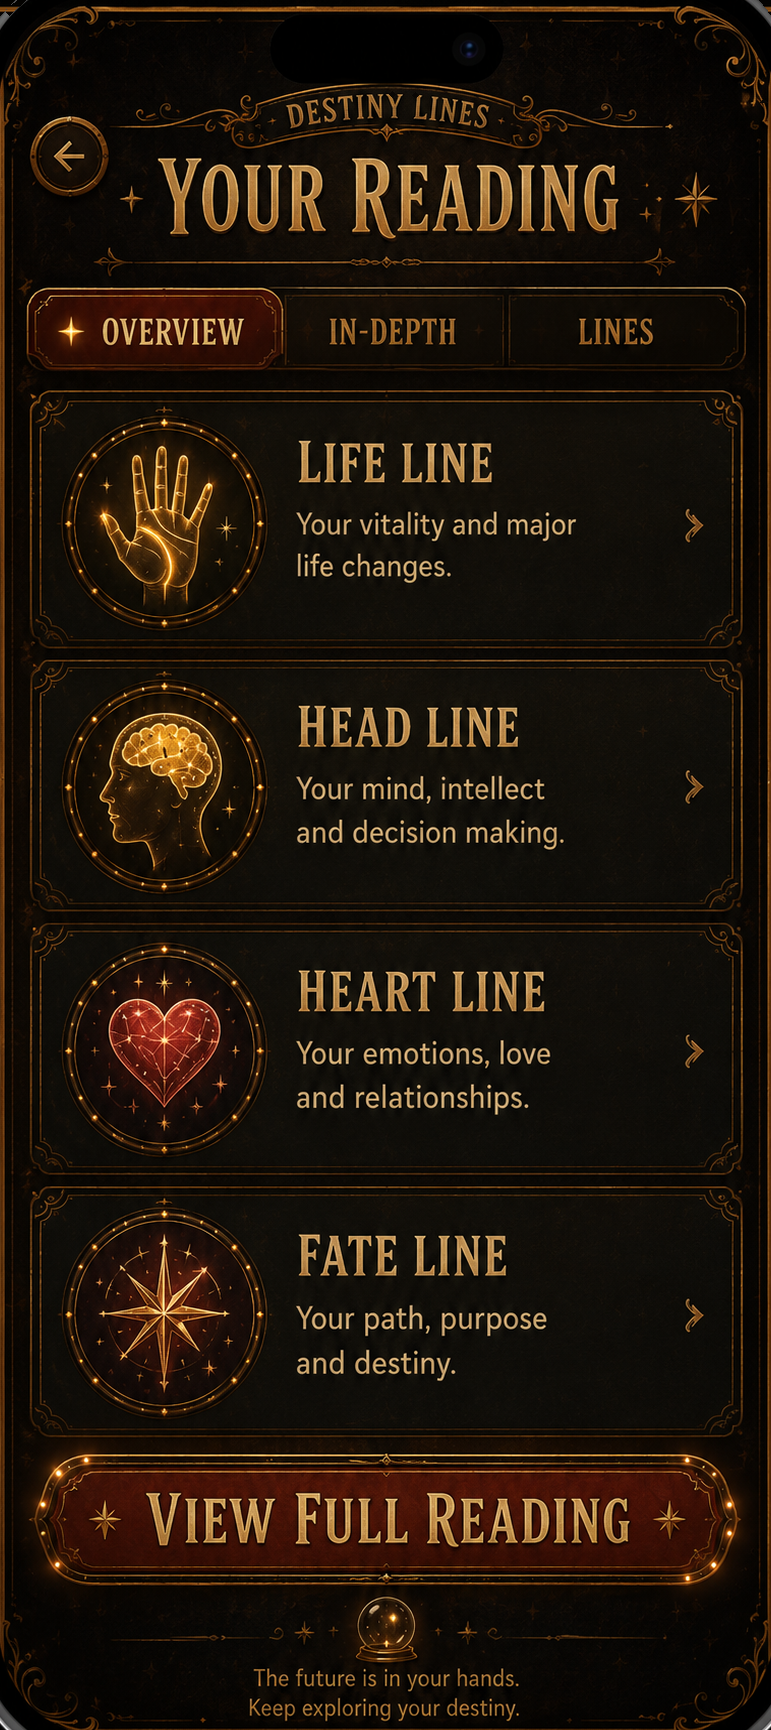
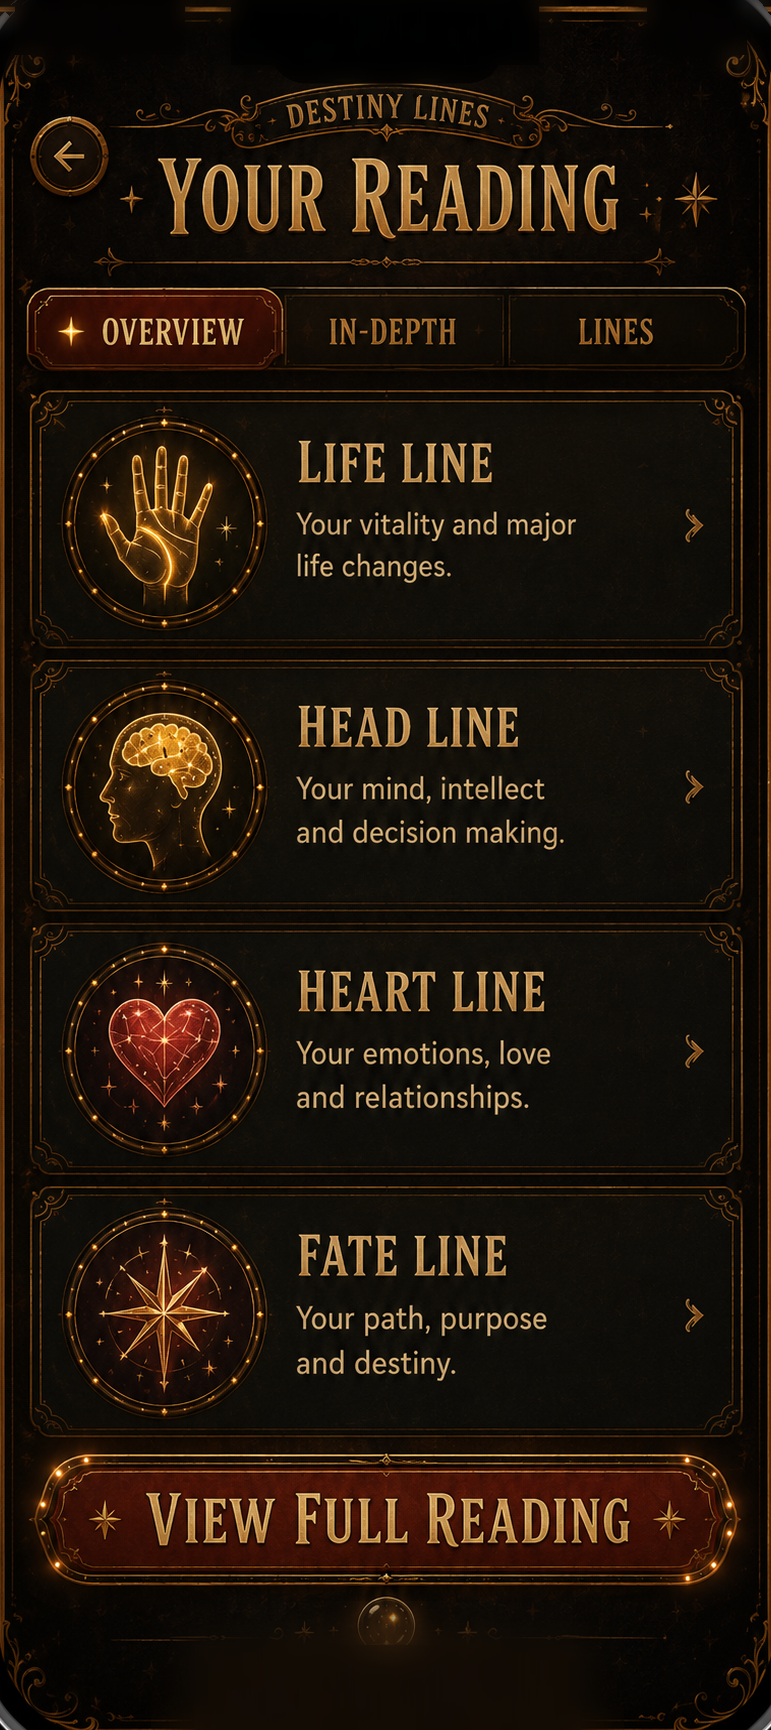
Fix layout clipping, art artifacts, and Home's dead controls
Layout: art was fitted to the whole screen, so baked chrome fell under
the Dynamic Island (Capture's banner) and the reading header was
clipped by the safe-area boundary. Art now fits inside the SAFE area
with only the backdrop bleeding to the edges, so nothing is ever
hidden by device hardware. The reading tabs' scroll region was also
too short, cutting cards off behind the footer band; it now runs from
under the tab rail to the footer and scrolls.

Artwork: erased the mockups' baked device chrome that was showing
through as artifacts — battery outlines (paywall, home), the Dynamic
Island notch and camera dot (capture, reading, analyzing, history,
share), and baked status-bar clocks. Removed Capture's bottom banner
so the rest of that screen has room, and cleared the reading footer
sentence so our disclaimer sits there instead of colliding with it.

Home: the comp's two top medallions were decorative, and the top-right
one carried a fake notification badge. Both are erased from the art
and replaced with working controls in the same style — sound toggle
left, Settings right (which now actually opens Settings).

Line detail sheet: body text up to 21pt with looser leading, opens at
full height, and the redundant Close button is gone in favour of the
drag indicator.

Verified: every affected screen screenshotted; suite green on two
device sizes.

diff --git a/DestinyLines/Features/Reading/ReadingView.swift b/DestinyLines/Features/Reading/ReadingView.swift
@@ -12,10 +12,31 @@ struct ReadingView: View {
     @Environment(\.dismiss) private var dismiss
 
     enum Tab: Hashable { case overview, inDepth, lines }
-    @State private var tab: Tab = .overview
-    @State private var detailLine: PalmLine.Kind?
+    @State private var tab: Tab = Self.initialTab
+    @State private var detailLine: PalmLine.Kind? = Self.initialDetail
 
     private var isFree: Bool { reading.tier == .free }
+
+    private static var initialDetail: PalmLine.Kind? {
+        #if DEBUG
+        return ProcessInfo.processInfo.environment["DEBUG_ROUTE"] == "reading-detail" ? .life : nil
+        #else
+        return nil
+        #endif
+    }
+
+    /// Debug builds can open straight onto a tab for screenshot verification.
+    private static var initialTab: Tab {
+        #if DEBUG
+        switch ProcessInfo.processInfo.environment["DEBUG_ROUTE"] {
+        case "reading-indepth": return .inDepth
+        case "reading-lines": return .lines
+        default: return .overview
+        }
+        #else
+        return .overview
+        #endif
+    }
 
     var body: some View {
         Group {
@@ -79,14 +100,17 @@ struct ReadingView: View {
             backHotspot(art)
             tabHotspots(art)
 
-            ScrollView {
+            // Runs from just under the tab rail down to the footer band, so long
+            // readings scroll instead of being clipped by a short content window.
+            ScrollView(showsIndicators: false) {
                 VStack(spacing: Theme.cardSpacing) {
                     content()
                 }
-                .padding(.horizontal, 18)
-                .padding(.vertical, 12)
+                .padding(.horizontal, 16)
+                .padding(.top, 10)
+                .padding(.bottom, 24)
             }
-            .artFrame(art.rect(0.03, 0.215, 0.94, 0.62))
+            .artFrame(art.rect(0.035, 0.213, 0.93, 0.725))
 
             disclaimer(art)
         }
@@ -207,13 +231,19 @@ struct ReadingView: View {
     }
 
     private func disclaimer(_ art: ArtGeometry) -> some View {
-        // Required disclaimer on readings (§9): slim strip pinned under the art's footer.
-        Text("For entertainment purposes only.")
-            .font(Typography.fine)
-            .foregroundStyle(Theme.gold.opacity(0.7))
-            .artFrame(art.rect(0, 0.978, 1, 0.022))
-            .background(Theme.background)
-            .allowsHitTesting(false)
+        // Required disclaimer on readings (§9). The comp's own footer sentence was
+        // erased from the artwork so this sits in that band instead of colliding with it.
+        VStack(spacing: 2) {
+            Text("The future is in your hands.")
+                .font(Typography.caption)
+                .foregroundStyle(Theme.goldLight.opacity(0.85))
+            Text("For entertainment purposes only.")
+                .font(Typography.fine)
+                .foregroundStyle(Theme.gold.opacity(0.65))
+        }
+        .multilineTextAlignment(.center)
+        .artFrame(art.rect(0.1, 0.944, 0.8, 0.05))
+        .allowsHitTesting(false)
     }
 }
 
@@ -238,33 +268,36 @@ struct LineDetailSheet: View {
     @Environment(\.dismiss) private var dismiss
 
     var body: some View {
-        ScrollView {
-            VStack(spacing: 16) {
-                IconMedallion(systemName: kind.icon, diameter: 74)
-                    .padding(.top, 24)
+        ScrollView(showsIndicators: false) {
+            VStack(spacing: 14) {
+                IconMedallion(systemName: kind.icon, diameter: 70)
+                    .padding(.top, 18)
 
                 Text(kind.displayTitle)
                     .font(Typography.title)
                     .foregroundStyle(Theme.goldBevel)
 
                 Text(line.subtitle)
-                    .font(Typography.caption)
+                    .font(Typography.bodyText)
                     .foregroundStyle(Theme.goldLight.opacity(0.85))
 
                 OrnamentDivider()
                     .padding(.horizontal, 60)
 
-                OrnateCard {
+                OrnateCard(contentPadding: 18) {
                     Text(line.body)
-                        .font(Typography.bodyText)
+                        // Larger than standard body copy: this is the reading itself and
+                        // the sheet exists to be read, not skimmed.
+                        .font(.custom("AlegreyaSans-Regular", size: 21, relativeTo: .body))
+                        .lineSpacing(3)
                         .foregroundStyle(Theme.goldLight)
                         .frame(maxWidth: .infinity, alignment: .leading)
                 }
-                .padding(.horizontal, 20)
+                .padding(.horizontal, 16)
 
                 if let traits = line.traits, !traits.isEmpty {
                     TraitChips(traits: traits)
-                        .padding(.horizontal, 20)
+                        .padding(.horizontal, 16)
                 } else if isFree {
                     Button(action: onUnlock) {
                         Label("Unlock traits with Premium", systemImage: "lock.fill")
@@ -272,15 +305,13 @@ struct LineDetailSheet: View {
                             .foregroundStyle(Theme.gold)
                     }
                 }
-
-                Button("Close") { dismiss() }
-                    .font(Typography.bodyEmphasis)
-                    .foregroundStyle(Theme.gold)
-                    .padding(.bottom, 24)
             }
+            .padding(.bottom, 28)
         }
         .screenBackground()
-        .presentationDetents([.medium, .large])
+        // Opens tall so the reading has room; the drag indicator is the way out, so no
+        // redundant Close button competing with it.
+        .presentationDetents([.large])
         .presentationDragIndicator(.visible)
     }
 }

diff --git a/DestinyLines/DesignSystem/ArtScreen.swift b/DestinyLines/DesignSystem/ArtScreen.swift
@@ -6,26 +6,29 @@ import UIKit
 ///
 /// The comps are used directly per the owner's direction — the app IS the mockups.
 ///
-/// **Sizing is aspect-FIT, never fill or stretch.** The comps' aspect ratios differ from
-/// each other and from every device (the paywall art is markedly wider than the rest), so
-/// filling crops content off-screen and stretching distorts it — badly on short, wide
-/// phones like the SE. Fitting guarantees every baked control stays visible on any device;
-/// the leftover margin is filled with the art's own near-black, which is invisible in
-/// practice because all the comps are dark at the edges.
+/// **Sizing is aspect-FIT inside the safe area, never fill or stretch.** Two reasons:
+///
+/// 1. The comps' aspect ratios differ from each other and from every device (the paywall
+///    art is markedly wider than the rest), so filling crops content off-screen and
+///    stretching distorts it — badly on short, wide phones.
+/// 2. Fitting the *safe area* rather than the whole screen keeps baked chrome out from
+///    under the Dynamic Island and the home indicator. Drawing edge-to-edge put the
+///    Capture banner behind the island and let the reading header be clipped.
+///
+/// The surrounding margin is filled with the art's own near-black, which reads as part of
+/// the artwork because every comp is dark at its edges.
 struct ArtScreen<Overlay: View>: View {
     let image: String
     @ViewBuilder var overlay: (ArtGeometry) -> Overlay
 
     var body: some View {
         GeometryReader { proxy in
-            let container = ArtLayout.container(proxy)
-            let art = ArtGeometry(frame: ArtLayout.fittedFrame(for: image, in: container))
+            // This GeometryReader is laid out inside the safe area, so its bounds are
+            // exactly the region the art must stay within.
+            let box = CGRect(origin: .zero, size: proxy.size)
+            let art = ArtGeometry(frame: ArtLayout.fittedFrame(for: image, in: box))
 
             ZStack(alignment: .topLeading) {
-                Theme.background
-                    .frame(width: container.width, height: container.height)
-                    .offset(x: container.minX, y: container.minY)
-
                 Image(image)
                     .resizable()
                     .artFrame(art.frame)
@@ -33,7 +36,8 @@ struct ArtScreen<Overlay: View>: View {
                 overlay(art)
             }
         }
-        .ignoresSafeArea(.keyboard)
+        // Only the backdrop bleeds past the safe area; the art itself never does.
+        .background(Theme.background.ignoresSafeArea())
         .preferredColorScheme(.dark)
         .toolbar(.hidden, for: .navigationBar)
     }

diff --git a/DestinyLines/DesignSystem/Components/MuteButton.swift b/DestinyLines/DesignSystem/Components/MuteButton.swift
@@ -1,10 +1,12 @@
 import SwiftUI
 
-/// Sound toggle that stands in for the baked compass medallion on the Home art.
-/// Redraws the medallion — dark well, double gold ring, gold glyph — so it reads as
-/// part of the booth rather than a control pasted on top.
-struct MuteButton: View {
-    let isMuted: Bool
+/// Circular medallion control drawn in the booth's style — dark well, double gold ring,
+/// gold glyph. Used for the two Home corner controls, which stand where the comp had
+/// decorative (non-functional) medallions.
+struct ArtMedallionButton: View {
+    let systemName: String
+    let label: String
+    var isGlowing = true
     let action: () -> Void
 
     var body: some View {
@@ -13,7 +15,6 @@ struct MuteButton: View {
                 let d = min(proxy.size.width, proxy.size.height)
 
                 ZStack {
-                    // Cover the compass beneath with the art's own near-black.
                     Circle()
                         .fill(
                             RadialGradient(
@@ -34,10 +35,10 @@ struct MuteButton: View {
                         .strokeBorder(Theme.goldDark.opacity(0.8), lineWidth: d * 0.02)
                         .padding(d * 0.11)
 
-                    Image(systemName: isMuted ? "speaker.slash.fill" : "speaker.wave.2.fill")
+                    Image(systemName: systemName)
                         .font(.system(size: d * 0.34, weight: .medium))
                         .foregroundStyle(Theme.goldBevel)
-                        .shadow(color: Theme.glow.opacity(isMuted ? 0 : 0.7), radius: d * 0.08)
+                        .shadow(color: Theme.glow.opacity(isGlowing ? 0.7 : 0), radius: d * 0.08)
                 }
                 .frame(width: d, height: d)
                 .frame(maxWidth: .infinity, maxHeight: .infinity)
@@ -45,8 +46,23 @@ struct MuteButton: View {
             }
         }
         .buttonStyle(ArtPressStyle())
-        .accessibilityLabel(isMuted ? "Sound off" : "Sound on")
-        .accessibilityHint("Toggles the background music")
+        .accessibilityLabel(label)
         .accessibilityAddTraits(.isButton)
+    }
+}
+
+/// Sound toggle for the looping background music.
+struct MuteButton: View {
+    let isMuted: Bool
+    let action: () -> Void
+
+    var body: some View {
+        ArtMedallionButton(
+            systemName: isMuted ? "speaker.slash.fill" : "speaker.wave.2.fill",
+            label: isMuted ? "Sound off" : "Sound on",
+            isGlowing: !isMuted,
+            action: action
+        )
+        .accessibilityHint("Toggles the background music")
     }
 }

diff --git a/DestinyLines/Features/Capture/CaptureView.swift b/DestinyLines/Features/Capture/CaptureView.swift
@@ -14,29 +14,31 @@ struct CaptureView: View {
 
     var body: some View {
         ArtScreen(image: "bg_capture") { art in
-            ArtHotspot(rect: art.rect(0.02, 0.045, 0.13, 0.062), label: "Back",
+            // Coordinates are relative to the trimmed art (the comp's bottom banner was
+            // removed so the rest of the screen has room to breathe on real devices).
+            ArtHotspot(rect: art.rect(0.02, 0.049, 0.13, 0.067), label: "Back",
                        debug: ArtDebug.showHotspots) {
                 dismiss()
             }
 
             // CHOOSE FROM PHOTOS row
-            ArtHotspot(rect: art.rect(0.115, 0.585, 0.77, 0.075), label: "Choose from Photos. Upload from your library.",
+            ArtHotspot(rect: art.rect(0.115, 0.634, 0.77, 0.081), label: "Choose from Photos. Upload from your library.",
                        debug: ArtDebug.showHotspots) {
                 showLibraryPicker = true
             }
 
             // TAKE PHOTO row
-            ArtHotspot(rect: art.rect(0.115, 0.685, 0.77, 0.075), label: "Take Photo. Use your camera.",
+            ArtHotspot(rect: art.rect(0.115, 0.743, 0.77, 0.081), label: "Take Photo. Use your camera.",
                        debug: ArtDebug.showHotspots) {
                 appState.navigate(.align(source: .camera))
             }
 
-            // §6.1 privacy line — required copy, added in the art's empty band.
+            // §6.1 privacy line — required copy, in the band the banner used to occupy.
             Text("We delete your photo as soon as your reading is ready. We never keep it.")
                 .font(Typography.fine)
                 .foregroundStyle(Theme.goldLight.opacity(0.8))
                 .multilineTextAlignment(.center)
-                .artFrame(art.rect(0.10, 0.875, 0.80, 0.040))
+                .artFrame(art.rect(0.08, 0.945, 0.84, 0.048))
                 .allowsHitTesting(false)
 
             if submission.state == .checking || submission.state == .uploading {

diff --git a/DestinyLines/Features/Home/HomeView.swift b/DestinyLines/Features/Home/HomeView.swift
@@ -9,11 +9,17 @@ struct HomeView: View {
 
     var body: some View {
         ArtScreen(image: "bg_home") { art in
-            // Sound toggle, drawn over the baked compass medallion top-left.
+            // The comp's two top medallions were decorative; they've been erased from the
+            // art and replaced with these working controls in the same style and place.
             MuteButton(isMuted: audio.isMuted) {
                 audio.toggleMute()
             }
             .artFrame(art.rect(0.052, 0.048, 0.115, 0.056))
+
+            ArtMedallionButton(systemName: "gearshape.fill", label: "Settings") {
+                appState.navigate(.settings)
+            }
+            .artFrame(art.rect(0.840, 0.048, 0.115, 0.056))
 
             // NEW READING marquee plate
             ArtHotspot(
@@ -55,18 +61,6 @@ struct HomeView: View {
                 appState.navigate(.settings)
             }
 
-            // Live badge over the baked top-right medallion.
-            if !readingStore.readings.isEmpty {
-                Text("\(readingStore.readings.count)")
-                    .font(Typography.fine)
-                    .foregroundStyle(.white)
-                    .padding(6)
-                    .background(Circle().fill(Color(red: 0.72, green: 0.20, blue: 0.10)))
-                    .overlay(Circle().strokeBorder(Theme.gold.opacity(0.7), lineWidth: 1))
-                    .artFrame(art.rect(0.905, 0.032, 0.10, 0.040))
-                    .allowsHitTesting(false)
-                    .accessibilityLabel("\(readingStore.readings.count) saved readings")
-            }
         }
     }
 }

diff --git a/DestinyLines/App/RootView.swift b/DestinyLines/App/RootView.swift
@@ -102,9 +102,9 @@ struct RootView: View {
         case "align": appState.navigate(.align(source: .camera))
         case "analyzing": appState.navigate(.analyzing(objectKey: "debug"))
         case "rejection": appState.navigate(.rejection(.tooDark))
-        case "reading", "history", "share":
+        case "reading", "reading-indepth", "reading-lines", "reading-detail", "history", "share":
             if readingStore.readings.isEmpty { readingStore.add(sample) }
-            if route == "reading" { appState.navigate(.reading(sample)) }
+            if route.hasPrefix("reading") { appState.navigate(.reading(sample)) }
             if route == "history" { appState.navigate(.history) }
             if route == "share" { appState.navigate(.share(sample)) }
         case "settings": appState.navigate(.settings)
